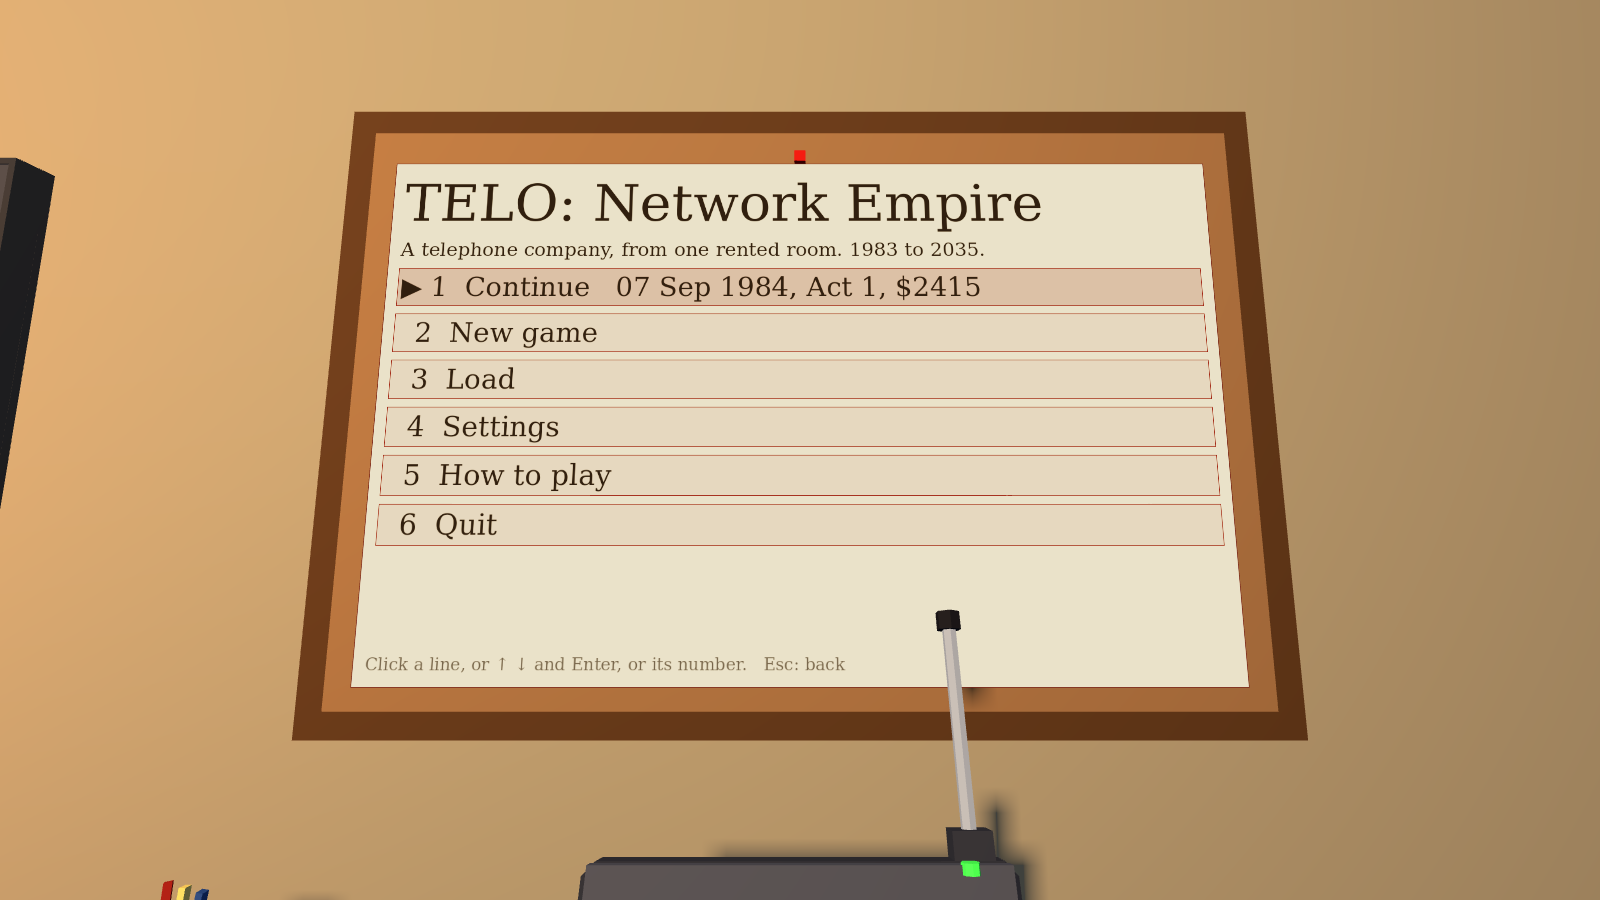
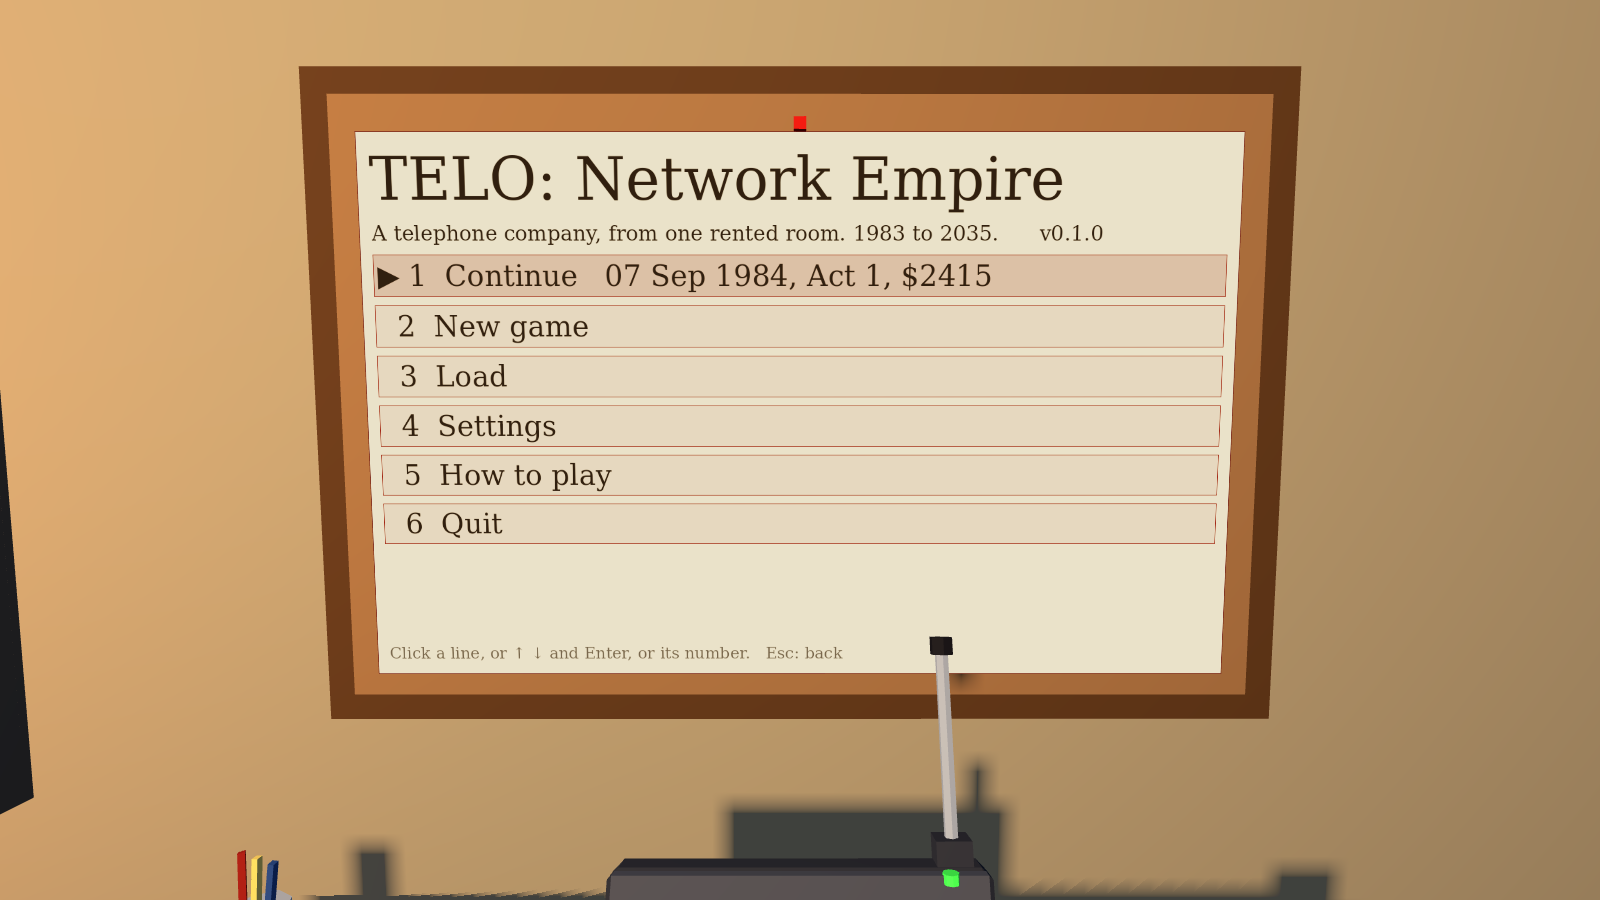
EA6 done: docs, pictures and next session
BUILD_PLAN ticks EA6 (and step 1 of the launch path); CLAUDE.md gains the
front door, saves, settings and god-key notes; NEXT_SESSION points at
EA7 sound; IDEAS gets EA6's loose ends. title.png retaken with the real
settings wired in; pause-settings.png added.

Claude-Session: https://claude.ai/code/session_01QHSUZv2AKzFRod2YyravG3

diff --git a/docs/BUILD_PLAN.md b/docs/BUILD_PLAN.md
@@ -13,7 +13,7 @@ Each milestone ends playable, with green tests and `SMOKE OK`. Week counts assum
 *State on 2026-11-16: the whole path plays. 82 sim tests and `--smoke` pass. The script player reaches Act 5 by Feb 1985; fast autoplay reaches Act 5 in ~25 real minutes with 0 assists. See `NEXT_SESSION.md` → "Newest". Owner's words: "bulk dev please, then models later"; "make sure the game timeline gameplay makes sense and flows from task to task having everything you need perfectly gated behind something else".*
 
 **Race to market (owner, 2026-11-25): the launch path, in this order.** Only what a player needs to buy, start, play and finish early access; everything else ships as free updates after launch.
-1. **EA6** the early-access shell, plus playable builds out of a `v*` tag (under way 2026-11-25).
+1. ✅ **EA6** the early-access shell, plus playable builds out of a `v*` tag (done 2026-11-25).
 2. **EA7** a sound pass (below): a game with no sound reads as unfinished in the first ten seconds.
 3. **DC2** the hall (placeholder boxes) and **DC9** the finale (the lit board and the early-access card). The thirteen Act 5 projects already play on today's click-and-hold steps.
 4. **Owner playtest:** one evening of Acts 0–2, then a fix pass on what hurt (the bot is a perfect player; people aren't).
@@ -31,7 +31,7 @@ EA2d. **[Moved to Act 6 by D46; not early access]** **Masts round the planet** (
 EA3. ✅ **Places for the far towns**, done 2026-11-24 (cloud, two subagents in parallel). **Millbrook** (Act 2) is a market town on a headland past Hollow Farm, reached by `road-farm-millbrook`: Market Street and Mill Lane, eight households (`lot-mb-*`, opened by `proj-millbrook`; the Corn Exchange and the Wheatsheaf are businesses); `proj-millbrook` and `proj-home-millbrook` stand at its exchange hut, and `proj-millbrook` brings the last switchboard panel (the board is now exactly 64; `ContentDb.Validate` refuses more). **Farland** (Act 3) is an island `PlanetGen` raises out of the sea south of Kestrel Point (the seed has one continent): a harbour town, Quay Street and Harbour Lane, six households (`lot-fl-*`: pub, chandlery, fish merchant, harbourmaster, two homes; opened by `proj-ocean-cable`), whose lines go live at the cable's beach end (`SwitchRules.OffBoard`), never on the switchboard. **The car ferry** (`Vehicles["ferry"]`, `Places.RouteOf`, `game/scripts/Ferry.cs`): Kestrel Point jetty ↔ Farland harbour, 40 game minutes, from Act 3; hold E at the ticket window; the player, bot, planner and `--autoplay` all use it (`--autoplay-goto=<place>` tests a trip). `proj-ocean-cable`'s splice is now on Farland's beach and `proj-farland-city` stands at the harbour town's edge. Far towns (`TownRules.FarTowns`) offer no odd jobs and no catalogue orders (the round trips pushed Act 3 past 8 h). **The Act 5 script player: 26.4 h (0.8 / 4.6 / 3.9 / 7.5 / 4.9 / 4.7); Act 6 begins with $8,349; a year in, $280,378.** Tests: `PlanetTests` (Millbrook), `FarlandTests` (two; 92 in all). Pictures `docs/img/millbrook.png`, `millbrook-air.png`, `farland.png`, `farland-street.png`, `farland-across.png`, `ferry.png`; `--shots=millbrook`, `--shots=farland`. *Not done:* landmark models for both towns, a ferry fare or timetable (IDEAS inbox). *Was:* **[Dev] Places for the far towns.** *Goal:* Millbrook (Act 2) and the Farland coast (Act 3) become places you can drive (or sail) to: a `Site` in `PlanetGen`, a street in `TownBuilder.Streets`, a handful of named lots, and the project sites moved there. Regions keep counting the bulk of each town. *Done when:* a `--shot` of Millbrook; the Act 5 script player still passes.
 EA4. **[Dev] Hand projects to crews.** *Goal:* AGES.md's "Handed to" column: after your first project of a kind, a line crew / rigger / DC team can be hired (work.json stage) and does project steps themselves, slower and 80–90% right, with defects that surface later. *Done when:* a test: a crew finishes a project step overnight; a crew mistake becomes a fault.
 EA5. **[Dev] Project variety in the world.** *Goal:* each project's steps show as labelled placeholder props at the site (a pole, a cabinet, a rack, a dish, a mast) instead of one growing box; waits show as a sign ("Engineer booked until 12 Mar"). *Done when:* `--shot` pictures of three projects mid-build. *Not in scope:* models (later, D15).
-EA6. **[Dev] Early-access shell.** *Goal:* what a player needs that a developer doesn't: a title screen with New / Continue, a settings page (mouse, volume, the day's real length), save slots, and a short "how to play" on PIP's phone. *Done when:* a fresh install can be played without the command line.
+EA6. ✅ **Early-access shell**, done 2026-11-25 (cloud, three subagents in parallel). **The front door** (`game/scripts/FrontDoor.cs`, `SaveSlots.cs`, `UI/MenuView.cs`): launching shows a typed letter on a cork board above the desk in the rented room, the new world built behind it: Continue (the newest save's date, act and cash), New game, Load, Settings, How to play, Quit, by mouse on the letter or by keys. Three save slots and an autosave (`user://saves/`; autosave on waking each morning, on quitting and on closing the window; F5 saves to the autosave, F9 loads the newest; an old `user://save.json` moves into a slot once). Esc brings PIP's handset up and stops the game: Resume, Save, Load, Settings, How to play, Quit to title, Quit game. **Settings** (`GameSettings.cs`, `UI/SettingsView.cs`, `user://settings.cfg`): mouse speed, invert, full screen or window, graphics Low/Medium/High (Low: 75% render scale, cheaper shadows, trees to 1 km), the length of a day (8, 12, 16 real minutes; the pace target is measured at 8), and volume (Master bus, ready for EA7). **How to play**: seven pages from PIP (`UI/HowToPlayView.cs`). **Releases** (`.github/workflows/release.yml`): Actions → Release → Run workflow with a version like `0.2.0` (or a `v*` tag) tests the sim, exports Linux and Windows, smoke-tests the exported Linux build, and leaves a draft release with both zips (66 MB / 77 MB) for the owner to try and publish; `check.yml` is now manual only. The game is `0.1.0`. God keys work only in editor/debug runs, never in a player's build. Developer flags skip the title and use default settings, so every check behaves as before. Pictures `docs/img/title.png`, `pause.png`, `pause-settings.png`, `settings.png`, `howto.png`; `--shots=title` (clicks through the title and pause, saves and reloads, prints `TITLE OK` / `LOAD OK`) and `--shots=settings`. *Not done (IDEAS inbox):* key rebinding, a confirm before overwriting a slot, models for the letter and the handset, the Windows build launched by a person, Low's FSR/FXAA path on a Vulkan PC. *Was:* **[Dev] Early-access shell.** *Goal:* what a player needs that a developer doesn't: a title screen with New / Continue, a settings page (mouse, volume, the day's real length), save slots, and a short "how to play" on PIP's phone. *Done when:* a fresh install can be played without the command line.
 EA7. **[Dev] A sound pass** (`ASSET_LIST.md` §10, synthesised in code, D15). *Goal:* the first hour sounds alive: footsteps (grass, road, indoors), the van (engine by speed, door), door knock and open, the hold-E tick and a "done" click, install steps (drill, staple gun, clip snap), the switchboard (jumper in and out, relay click, the big switch), dial tone, dead line and modem handshake on the test, PIP's beep, and a quiet outdoor bed (wind, birds by day, crickets at night). *Where:* `game/scripts/Audio/` builds every sound at startup as `AudioStreamWAV` from code (no files), one small `Sfx.Play(id, at)` call from each action; the Master bus volume is already in Settings (EA6). *Done when:* `--smoke` unchanged and the owner has heard a short recording or played it. *Not in scope:* music, voices.
 
 ### Early-access finale: the Data Centre (D46–D50; design in `docs/DATA_CENTRE_DESIGN.md`). DC1 done 2026-11-21; the rest after EA3, in order (EA2b the Yard and EA2c people who walk are done).

diff --git a/docs/NEXT_SESSION.md b/docs/NEXT_SESSION.md
@@ -1,14 +1,27 @@
 # Next Session — start here
 
-*Left off: 2026-11-24 (cloud dev session, EA3 places for the far towns, gameplay lane, branch `ccr-b491c42c-uwwv1w`, merged into `feature/gameplay`). 92 sim tests and `--smoke` pass. Saves are at v20. The owner wants **early access to cover Acts 0–5**, gameplay first, models later; Act 5 is The Core, the data centre (D46).*
+*Left off: 2026-11-25 (cloud dev session, EA6 the early-access shell, gameplay lane, branch `ccr-b491c42c-uwwv1w`, merged into `feature/gameplay`). 92 sim tests and `--smoke` pass. Saves are at v20. The game is v0.1.0. The owner is **racing to market**: read the standing rule at the top of `CLAUDE.md`.*
 
-**Start here:** run `tools/branches.sh start gameplay` (merges master and the lane in, lists stranded work). Then `BUILD_PLAN.md` → "Early access": EA3 is done. The top **[Dev]** item is now **EA4** (hand projects to crews); the Data Centre header says DC2–DC9 follow EA3, so if the owner doesn't name one, ask in one line: "EA4 crews, or DC2 the hall?". Before committing a rules change, run `dotnet test tests/Telo.Sim.Tests` (the script player is in it, `The_bot_plays_from_the_first_message_through_act_5`) and `--smoke`. **Act 3 is now 7.5 real hours against its 8-hour limit**: anything that adds Act 3 travel will trip it (IDEAS inbox has the fix: the bot fetching kit from far jobs). To watch the whole path: `godot --path game -- --autoplay --from=free --autoplay-fast --autoplay-teleport --autoplay-sample=15 --autoplay-speed=4 --autoplay-until=act6` (add `=/abs/dir` to `--autoplay` for photos and a log; in the cloud, `xvfb-run -a` in front). In a fresh cloud container run `godot --headless --path game --import` first.
+**Start here:** run `tools/branches.sh start gameplay`. Then the launch path at the top of `BUILD_PLAN.md` → "Early access": EA6 is done; next is **EA7, the sound pass** (the game has no sound at all yet; the Master volume setting is ready). **DC2 + a minimal DC9** may already be under way in a parallel session: check `tools/branches.sh` for stranded work and `feature/gameplay` before starting it. Before committing a rules change: `dotnet test tests/Telo.Sim.Tests` (the Act 5 script player is in it) and `--smoke`. **Act 3 is 7.5 real hours against its 8-hour limit.** End every session with the "Git: what to do" note (`docs/BRANCHES.md`, "Pull requests into master").
 
 **Cloud setup:** the environment's setup script installs .NET 8 and 10, Godot 4.7.1, Blender and xvfb, and pre-builds the project, so a new session can build and test straight away. (The 2026-11-24 session's container predated it: if `dotnet` or `godot` is missing, `apt-get install -y dotnet-sdk-8.0 libegl1 xvfb`, Godot from its GitHub release zip, and use `dotnet test tests/Telo.Sim.Tests` because the .NET 8 SDK can't read `Telo.slnx`.)
 
-**Master:** the owner asked to merge the lanes into `master` on 2026-11-24. The checks passed on `feature/gameplay` (build, 89 tests, smoke) and it was a clean fast-forward, but the session's permission rules refused the push to `master`, so `master` is still at 2026-11-22. Waiting for the owner's go-ahead.
+**Master and pull requests:** the owner merges into `master` through the standing PR `feature/gameplay → master` (`docs/BRANCHES.md`). `master` was fast-forwarded on 2026-11-25 with EA3; EA6 is in the standing PR.
 
-**Race to market (owner approved 2026-11-25):** the launch path is in `BUILD_PLAN.md` at the top of "Early access": EA6 → EA7 sound → DC2 + DC9 (minimal) → owner playtest → launch; the rest after launch. **EA6 is under way in session branch `ccr-b491c42c-uwwv1w`** (title in the world, save slots, pause on PIP's handset; `GameSettings`, settings and how-to-play views; release builds on a `v*` tag). A parallel session should not touch `GameRoot`'s startup, saving or pause, `FirstPersonController`, `PhoneView`, settings or `.github/workflows/`; **DC2 + a minimal DC9 is the parallel-safe item.** EA7 (sound) waits until EA6 is merged into the lane.
+**Race to market (owner approved 2026-11-25):** the launch path is at the top of "Early access" in `BUILD_PLAN.md`: ✅ EA6 → EA7 sound → DC2 + DC9 (minimal) → owner playtest → launch; the rest after launch.
+
+## Newest (2026-11-25): the early-access shell (EA6)
+
+Built by three subagents in parallel (front door, settings, release builds), then joined and checked together.
+
+- **The title** is a typed letter on a cork board above the desk in the rented room, the new world built behind it: Continue (newest save: date, act, cash), New game, Load, Settings, How to play, Quit. Mouse on the letter, or arrows/numbers and Enter. Picture `docs/img/title.png`.
+- **Saves:** three slots and an autosave in `user://saves/` (autosave on waking each morning, on quitting, on closing the window). F5 saves to the autosave, F9 loads the newest. An old `user://save.json` moves into a slot once.
+- **Pause:** Esc raises PIP's handset and stops the game: Resume, Save, Load, Settings, How to play, Quit to title, Quit game. `GameRoot.ShowOnDevice(view)` puts any page on the letter or the handset. Pictures `docs/img/pause.png`, `pause-settings.png`.
+- **Settings** (`user://settings.cfg`): mouse speed and invert, full screen (default) or window, graphics Low/Medium/High (Medium is the old look), the length of a day (8/12/16 real minutes; pace is measured at 8), volume (no sound yet). **How to play:** seven pages from PIP. Pictures `docs/img/settings.png`, `howto.png`.
+- **Releases:** GitHub → Actions → Release → Run workflow → a version like `0.2.0`. About 5–8 minutes later a draft release has Linux (66 MB) and Windows (77 MB) zips; the owner tries them and presses Publish. The workflow smoke-tests the exported Linux build first. It has not run on GitHub yet, and nobody has launched the Windows build.
+- **God keys** work only from the editor or `godot --path game`, never in a player's build. **Developer flags skip the title** and use default settings, so `--smoke`, `--shot` and the bot behave exactly as before.
+- **Checks:** `--shots=title` clicks through the title and pause, saves to slot 2 and loads it back (`TITLE OK`, `LOAD OK`); `--shots=settings` shoots the settings and how-to pages.
+- **Not done (IDEAS inbox):** key rebinding, a confirm before overwriting a slot, models for the letter and handset.
 
 ## Newest (2026-11-24): places for the far towns (EA3)
 

diff --git a/CLAUDE.md b/CLAUDE.md
@@ -120,6 +120,7 @@ The owner wants to avoid GUIs. Anything you read or click is the surface of an o
 - **Villages for hand work** (EA2f): besides the town and Eastgate, `PlanetGen` finds Wrenfold and Kettle Cross (opened by Act 1 projects) and Highmoor (Act 2, 1.2 km up the hill). Each is a `Site` plus a road to town, a street in `TownBuilder.Streets`, and lots with `needsProject`. A new village goes last in the `PlanetGen` constructor so the others don't move.
 - **Far towns** (EA3, `TownRules.FarTowns`): **Millbrook** (Act 2, on past Hollow Farm by `road-farm-millbrook`; Market Street and Mill Lane; eight `lot-mb-*` opened by `proj-millbrook`, which brings the last switchboard panel, so the board is now exactly 64 and `ContentDb.Validate` refuses more) and **Farland** (Act 3, an island `PlanetGen` raises out of the sea south of Kestrel Point; Quay Street and Harbour Lane; six `lot-fl-*` opened by `proj-ocean-cable`). Far towns offer no odd jobs and no catalogue orders. Farland's lines go live at the ocean cable's beach end (`SwitchRules.OffBoard`) and never take a switchboard port. Constructor order: Halden, then Millbrook, then `AddFarland()` **last** (it changes `RawHeight`). `PlanetGen.LandOf` says which land a point is on.
 - **The ferry** (EA3b, `Vehicles["ferry"]`, `Places.RouteOf`, `game/scripts/Ferry.cs`): a car ferry from the Kestrel Point jetty below Eastgate to Farland harbour, 40 game minutes, sailing from Act 3. Hold E at the ticket window: the sim moves the clock on by the crossing, the screen fades, and you (and the van, if it's on the jetty) land at the other quay. The go action, the planner, the bot and `--autoplay` all route over it; `--autoplay-goto=<place>` makes one trip and reports it. Another island later is data: a site, two quays and a `Crossing`.
+- **The front door** (EA6, `game/scripts/FrontDoor.cs`, `SaveSlots.cs`, `UI/MenuView.cs`): a plain launch shows the title letter on the cork board above the desk (Continue, New game, Load, Settings, How to play, Quit); Esc raises PIP's handset and stops the game (Resume, Save, Load, Settings, How to play, Quit to title, Quit game). `GameRoot.ShowOnDevice(view)` shows any `ModalView` on the letter or the raised handset, with Esc back to what was under it. Saves: three slots and an autosave in `user://saves/` (autosave on waking, quitting, closing the window). Settings: `GameSettings` (`user://settings.cfg`, `Apply()`), `UI/SettingsView.cs`; `GameRoot.DayLengthSeconds` reads the day length. **Developer flags (`--smoke`, `--shot`, `--shots=…`, `--autoplay…`, `--from=…`) skip the title, never autosave and use default settings.** God keys work only in debug runs (`OS.IsDebugBuild`).
 - **The Yard** (EA2b, D43, `Telo.Sim/Build/YardRules.cs`): Gorse's Yard (`lot-yard`, `LotKind.Yard`, east end of Main Street) sells every project's parts; a project's `cost` is paid at its counter, not at the site. `projects.json` `"parts"`: `van` (default: a crate, `Tools.Parts`, rides on the van's roof rack, carried to the site with two hands), `lorry` (the Yard's lorry leaves them at the site the next working morning) or `none` (paperwork, paid when you start). The first action at a site unloads the parts and starts the project (`ProjectRules.StartVerb`); `GameState.Parts` holds what is bought and not yet unloaded (saves v20). Trade hours seven till five, shut Sundays. The loading bay appears once a lorry project's act arrives. Build things by decree with `ProjectRules.GodBuild` (pays unless the parts were bought).
 - **Halden Flats** (DC1, `PlanetGen.FindFlatsSite`, site id `halden`): the data centre's plain on the coastal flats between the town, Eastgate and the shore, with a road from town. The Act 5 (The Core) projects stand there; the homing projects stand at the far end of each link. An act can end on one named project (`{ "kind": "built", "id": "proj-dc-lit" }`), not only on counts.
 - `PlanetGen.Roads`: graded routes that cut/fill terrain; `IsPaved` makes the van full speed on roads and in settlements, half speed off-road. Road surfaces are ray-cast onto the terrain (`TownBuilder.BuildRoads`).

diff --git a/docs/IDEAS.md b/docs/IDEAS.md
@@ -4,6 +4,8 @@ The parking lot. Dev sessions **add** one-liners to the Inbox and never build fr
 
 ## Inbox
 *(one line each: date, idea, where it came from)*
+- 2026-11-25 · [gameplay] **EA6 loose ends:** no confirm before a save overwrites a slot; no key rebinding; the Windows build has never been launched by a person (the first release's draft is the moment); Low graphics' FSR/FXAA path was only seen on OpenGL (the cloud has no Vulkan). From EA6.
+- 2026-11-25 · [geometry] **Models for the front door:** the title letter on its cork board above the desk, and PIP's handset held up for the pause (both placeholder boxes in `FrontDoor.cs`). The answering machine's aerial still pokes into the letter's bottom corner. From EA6.
 - 2026-11-24 · [gameplay] **Act 3 now runs 7.5 real hours against the 8-hour limit** (EA3: Millbrook's installs and the Farland ferry). Most of Millbrook's cost is the bot putting kit down at a far job and driving back to fetch it (seen between Millbrook, Wrenfold and Highmoor); teaching the bot to keep kit on the van for far jobs would buy the margin back. From EA3.
 - 2026-11-24 · [gameplay] **The ferry is free and always sails.** A fare, a timetable ("next sailing 14:20"), or weather that cancels a crossing would make the trip a decision. Later, a cable ship or light aircraft as more `Vehicles`. From EA3b.
 - 2026-11-24 · [geometry] **Landmarks for the far towns:** Millbrook's Corn Exchange, the Wheatsheaf and the exchange hut above Mill Lane; Farland's harbour (boats, lobster pots, the Anchor & Gull's sign) and a proper ferry model in place of the placeholder boxes (`Ferry.cs`). From EA3.
